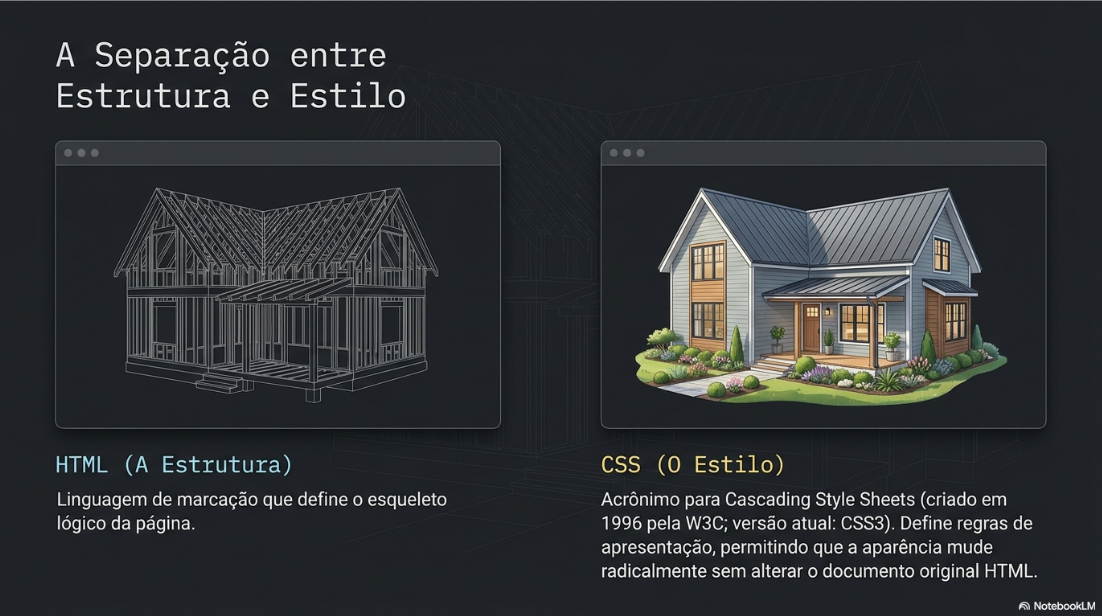
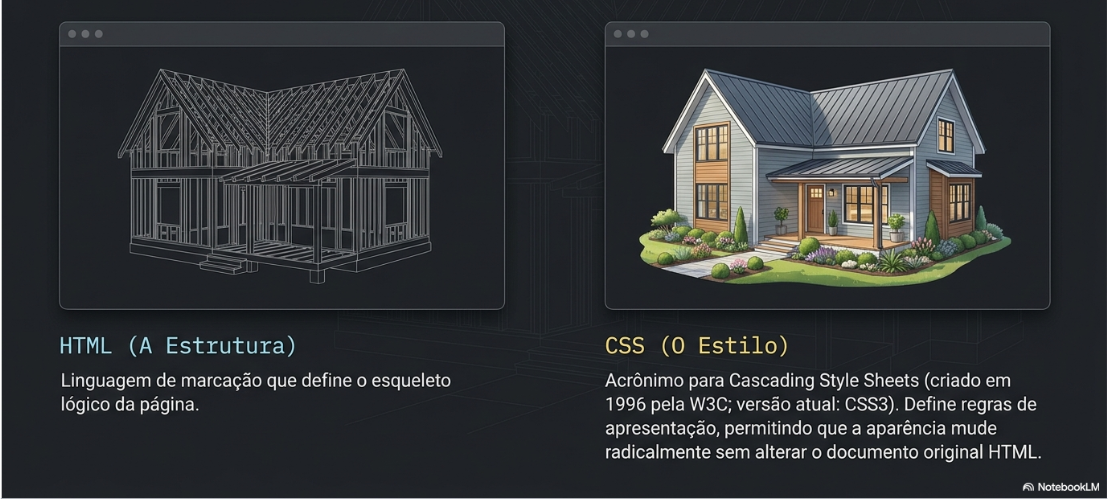
Conect css ao html

diff --git a/html/intro_css/intro_css.html b/html/intro_css/intro_css.html
@@ -37,8 +37,10 @@
                             <!-- Introdução [1, 2, 7] -->
                             <div class="tab-pane fade show active" id="intro" role="tabpanel">
                                 <div class="card p-4">
-                                    <h2 class="section-title">Introdução</h2>
+                                    <h2 class="section-title">1. Introdução</h2>
                                     <img src="../../assets/images/intro_css/intro_html_vs_css.png" alt="Separação entre estrutura e Estilo">
+                                    <h2 class="section-title">2. Conectando CSS ao HTML</h2>
+                                    <img src="../../assets/images/intro_css/conectando_css_ao_html.png" alt="Conectando CSS ao HTML">
                                 </div>
                             </div>
 
